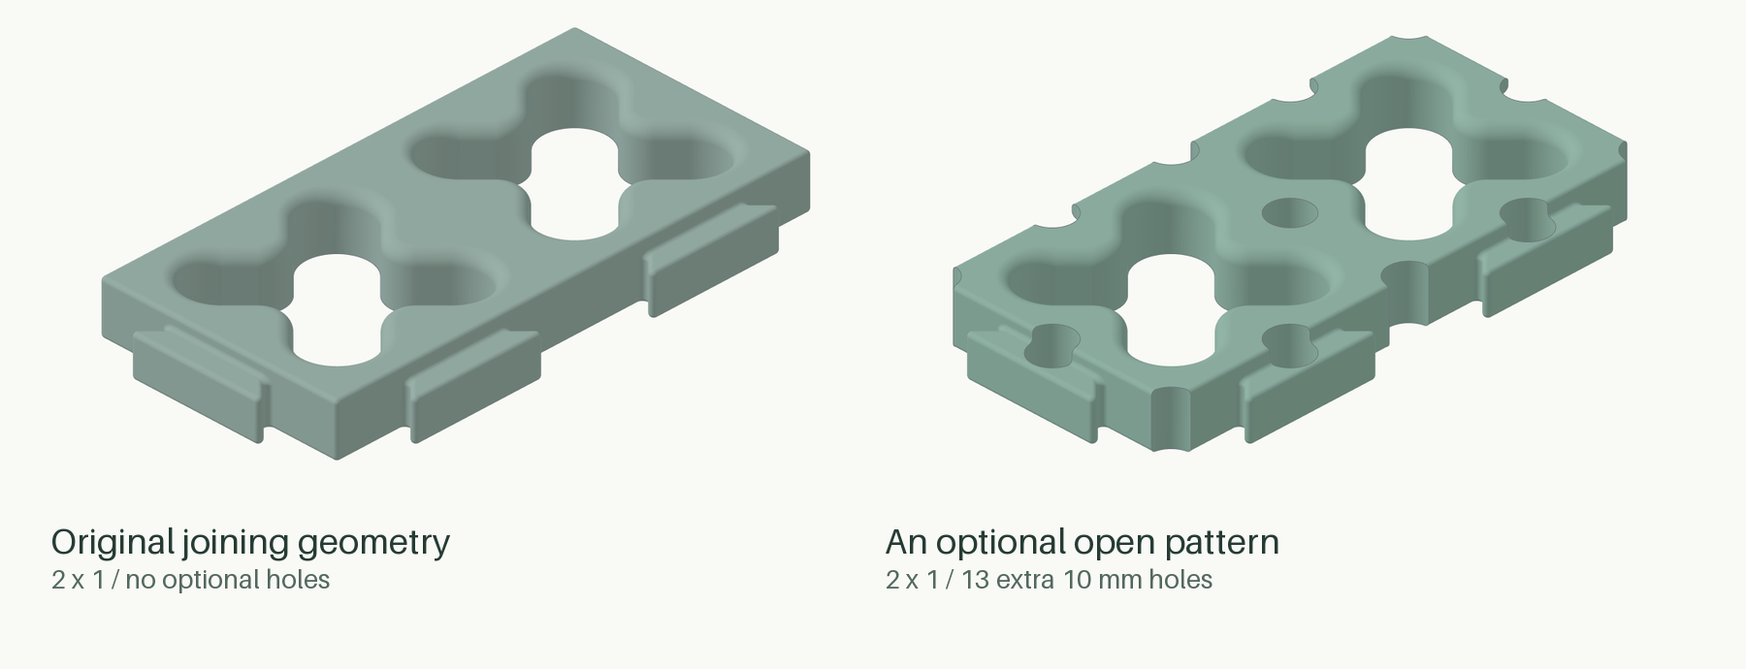
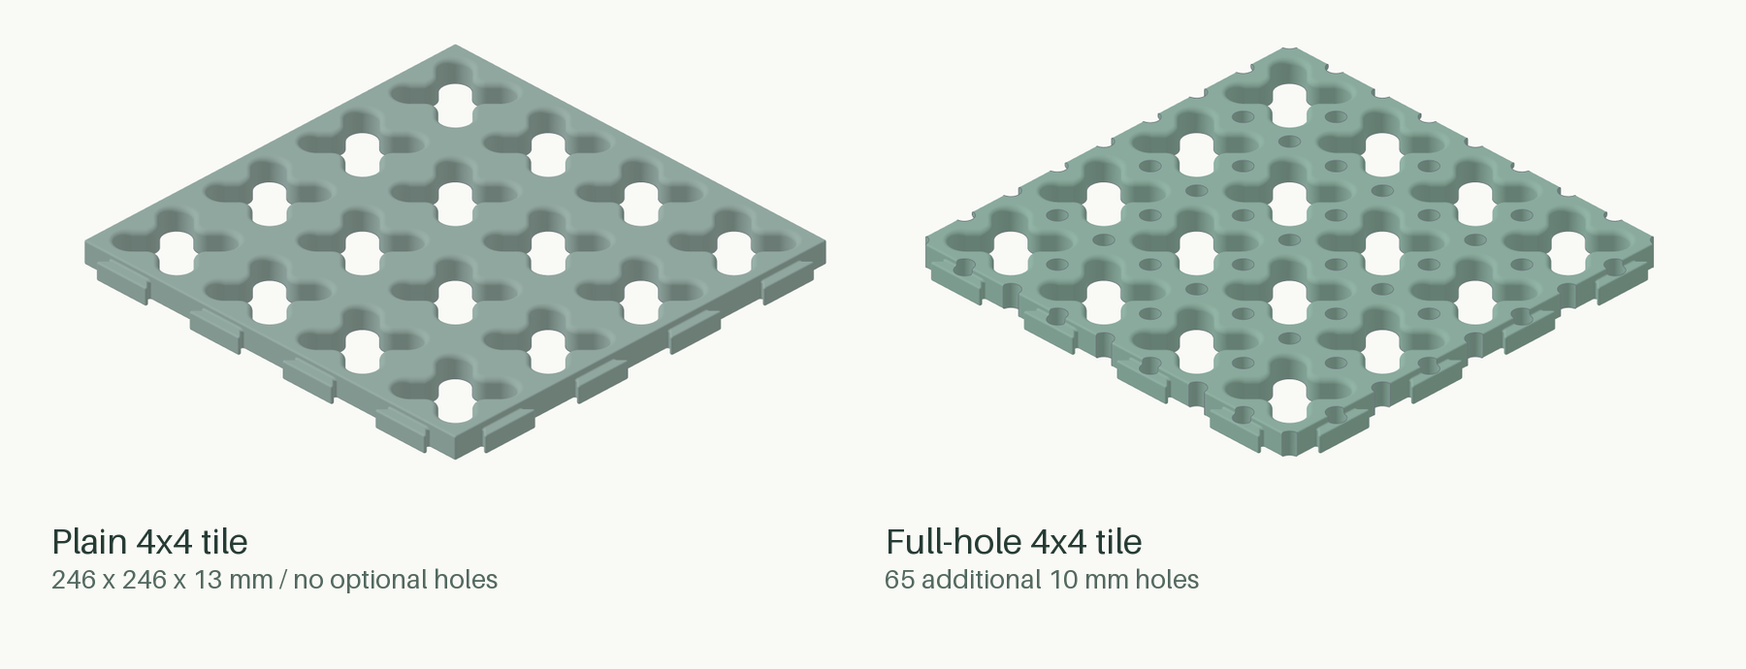
Make the project docs easier to use
Use plain hobbyist-facing language across the README, attachment list and release guide, explain CI directly, and replace the small hero examples with source-rendered 4x4 tiles.\n\nCo-authored-by: Copilot App <223556219+Copilot@users.noreply.github.com>

diff --git a/tools/render_docs.py b/tools/render_docs.py
@@ -147,8 +147,8 @@ def inventory() -> list[Item]:
 
 def hero_items() -> list[Item]:
     return [
-        Item("tile-default", "Original joining geometry", "2 x 1 / no optional holes"),
-        Item("tile-full", "An optional open pattern", "2 x 1 / 13 extra 10 mm holes"),
+        Item("tile-default", "Plain 4x4 tile", "246 x 246 x 13 mm / no optional holes"),
+        Item("tile-full", "Full-hole 4x4 tile", "65 additional 10 mm holes"),
     ]
 
 
@@ -196,8 +196,8 @@ def documentation_shape(key: str):
     if key in ("tile-default", "tile-full"):
         shape = make_tile(
             Tile(
-                2,
-                1,
+                4,
+                4,
                 hole_diameter=10 if key == "tile-full" else None,
                 hole_scope="full" if key == "tile-full" else "interior",
             )
@@ -654,23 +654,23 @@ def compose_all(work: Path, provenance: dict) -> None:
     lines = [
         "# Complete attachment inventory",
         "",
-        f"This gallery covers every attachment variant returned by `accessory_variants(BuildVolume(350, 320, 325))` with original joints and default accessory parameters. It contains {len(items)} variants, all rendered from the generator's actual STEP geometry. Other build envelopes and explicit parametric lengths/heights can produce additional variants; this is not an exhaustive list of an unbounded parameter space.",
+        f"This page lists the {len(items)} accessories that fit the documented 350 x 320 x 325 mm build space with original joints and default settings. Each thumbnail comes from the STEP generated for that part. Other build spaces can allow different rail lengths or ramp widths.",
         "",
-        "Every row has its own STEP-derived thumbnail, directly beside the exact public API name. Click any thumbnail to open its full-size image; on narrow screens, scroll the table horizontally for all columns. Images share a 45-degree azimuth / 32-degree elevation and neutral background, with a common physical scale within each family. Families use different scales for legibility; colors are illustrative, not material assignments.",
+        "Click a thumbnail to open the full-size image. The code name beside it is the name used by the generator. Parts in one family share a scale; different families use different scales so small details stay readable. Colors only separate the shapes visually.",
         "",
         "[Back to the beginner guide](../README.md) / [Thumbnail dimensions, hashes and source provenance](images/attachments/manifest.json)",
         "",
-        "Bracket names state both in-use footprints. The original Deep tall floor 1x2 -> wall 1x2, Wide low floor 2x1 -> wall 2x1 and Deep square floor 2x2 -> wall 2x2 variants keep floor depth and wall height coupled. The additional Shallow tall floor 1x1 -> wall 1x2 and Shallow wide floor 2x1 -> wall 2x2 variants use one floor row with two wall rows. Stable IDs keep the original short 1x2/2x1/2x2 names and spell out `base..._wall...` only for independent-height variants. These five variants require the reference 60 mm pitch, 13 mm tile height and zero fit offset; the unreleased lock-90 family remains replaced without an alias.",
+        "Bracket names state both footprints. Deep tall is floor 1x2 -> wall 1x2, Wide low is floor 2x1 -> wall 2x1 and Deep square is floor 2x2 -> wall 2x2. Shallow tall is floor 1x1 -> wall 1x2, and Shallow wide is floor 2x1 -> wall 2x2. The two shallow IDs spell out `base..._wall...`; the original three keep their shorter IDs. All five use the standard 60 mm pitch, 13 mm tile height and zero fit offset.",
         "",
-        "Bracket thumbnails show the exported one-piece bracket only. The [family view](images/vertical-tile-brackets.png) adds separate ordinary floor and upright wall tiles for assembly context; those tiles are not fused into or included with bracket exports. Wall-tile entry faces meet the bracket, so their undersides face outward. Backed interior round holes are blind, and downward wall extension is obstructed; left/right/up joins remain available at a common wall origin.",
+        "The individual thumbnails show the bracket alone. The [family view](images/vertical-tile-brackets.png) adds separate floor and wall tiles to show assembly; those tiles are not included in the bracket export. The wall tile's underside faces outward. Holes covered by the solid backing are blind while assembled.",
         "",
-        "Ramp names give width along the tile edge in 60 mm cells; every ramp keeps the approved 50 mm front-to-back run and 13 mm rise. One original roofed female pocket is repeated per cell. The ramp receives a north male tile edge and extends away in positive Y; rotating the printed part does not change joining direction. Full-height/custom-interface ramps are omitted rather than presented as compatible.",
+        "Ramp names give width along the tile edge in 60 mm cells. Every ramp keeps the same 50 mm run and 13 mm rise, with one original female pocket per cell. The ramp receives a tile's north male edge and extends in positive Y. Full-height and custom-interface ramps are not available.",
         "",
-        "Normal `vertical-stop` names use base X cells, base Y cells and an explicit H60/H120 shoulder height. These eight parts are filled CAD wedges, not hollow shells or tile brackets; ordinary slicer perimeters and 15% infill remain separate manufacturing choices. They have no wall holes, panel connectors or ledges.",
+        "Normal `vertical-stop` names give base X cells, base Y cells and H60/H120 shoulder height. They are filled CAD wedges with no wall holes, panel connectors or ledges. The slicer still chooses perimeters and infill.",
         "",
-        "Edge/corner free top rims and every normal-stop free exterior edge use R2 rounding. Rail outer top rims and original bracket nonbearing front lips use selective R1. Each shallow bracket couples R1 across its 20 free exterior body edges while retaining the internal panel-bearing corner and exact X geometry; each filled angled-stop envelope couples R1 across all 18 free body edges before restoring its exact X connector/root cores. Tile-facing joins, support joins, bracket bearing land and X interfaces remain protected. Nominal geometry is not calibrated fit or a physical load rating.",
+        "Edge/corner top rims and normal-stop outer edges use R2. Rails, bracket lips, shallow brackets and angled stops use the documented R1 rounds. Tile joints, rail joints, bracket bearing surfaces and X attachments keep their mating geometry.",
         "",
-        "Bambu projects apply X=135 degrees to original brackets, Y=-90 degrees side-down to shallow brackets, each normal stop's broad-rear-face-down angle and X=-135 degrees to angled stops before fit checks and packing. Ramps retain their flat source orientation. Source STEP/STL and core 3MF retain model orientation; manifests record recommendations and exact applied source-to-project transforms. Normal Auto support is scoped to ramp, normal-stop and shallow-bracket objects. Remove shallow-bracket support from both floor and wall X mating regions before assembly; physical removal and fit remain unverified. Edge/corner/plate/rail families retain their project orientation.",
+        "Bambu projects put original brackets on their diagonal rear face, shallow brackets on a broad side, normal stops on their broad rear face and angled stops on their rear face before packing. STEP, STL and core 3MF keep model orientation. Ramps, normal stops and shallow brackets request object-level normal Auto support. Remove all support from mating regions before assembly.",
         "",
     ]
     for family, (heading, _) in FAMILIES.items():

diff --git a/docs/release-checklist.md b/docs/release-checklist.md
@@ -1,52 +1,69 @@
 # Release checks
 
-These are repeatable maintainer gates, not authorization to publish, operate a printer or claim physical compatibility.
+Use this checklist before cutting a release. It checks the source and packages; it does not publish anything or prove that a printed part fits.
 
-## Source and environment
+## Set up the checkout
 
-- Review the intended source changes and license/provenance boundaries. Preserve the repository's MIT notice and any separately licensed dependencies.
-- Use Python 3.12 or newer with compatible CAD wheels. Run normal `uv sync --group dev` with the configured feeds. Keep `uv.lock`, environments, runtime files and generated output local.
-- Confirm that the source version in `src/cargo_grid/_version.py` is the intended pre-release or release identifier. The package, CLI and manifest derive their version from it.
+1. Review the source changes, version and license boundary.
+2. Run `uv sync --group dev` with the configured package feeds.
+3. Keep `uv.lock`, virtual environments, caches and generated jobs out of the commit.
+4. Confirm `src/cargo_grid/_version.py` has the intended version.
 
-## Portable checks
+## Run the portable checks
+
+On the documented local workstation, four process workers were slightly faster than eight for a representative CAD/CLI set because `--dist loadfile` had only five files to schedule. Use:
 
 ```sh
 uv run ruff check .
 uv run ruff format --check .
-uv run pytest -q -m "not native and not reference"
+uv run pytest -q -n 4 --dist loadfile -m "not native and not reference"
 git diff --check
 uv build
 uv run python tools/check_distributions.py dist
 ```
 
-Use a fresh distribution output directory when old builds are present; the archive checker intentionally rejects ambiguous collections of wheels/source archives. It verifies metadata, entry points, license preservation and the exclusion of generated/runtime artifacts. It is not a comprehensive secret or license scanner.
+Use fewer workers on a smaller machine. CI uses two workers on the GitHub runner. Do not use xdist for native Bambu or local-reference tests.
 
-Install the emitted wheel into a fresh environment, outside the source import path. Check both `python -m cargo_grid --version` and the `cargo-grid --help` entry point, then generate a small part and independently reimport its STEP to confirm one valid positive-volume solid and the expected dimensions. Do not mistake an editable source import for a wheel-install test.
+Build into a fresh directory. The distribution checker expects one wheel and one source archive and rejects extra build output. It checks package metadata, entry points, the license and the allowlist; it is not a general secret or license scanner.
 
-CI performs the portable tests, distribution checks and an installed-wheel CLI generation smoke. It does not access private references, system slicer profiles or hardware.
+Install the wheel into a clean Python 3.12 environment outside the source path. Check `python -m cargo_grid --version`, `cargo-grid --help` and at least one generated part. Reimport its STEP and check that it is one valid, positive-volume solid with the expected size.
 
-## Optional native and reference checks
+## What CI checks
 
-Normal generation and packaging need no external model or reference archive. For optional maintainer checks, set `CARGO_GRID_BAMBU` to an explicitly chosen local Bambu Studio executable and `CARGO_GRID_REFERENCE` to an optional local 3MF reference file, then run:
+CI runs for pull requests, pushes to `main` and manual dispatches. It does not run a second copy for every push to a PR branch. A concurrency group cancels older runs when a newer commit reaches the same PR.
+
+The Linux job installs the CAD runtime libraries, runs Ruff, runs the portable tests with two process workers, builds both distributions and installs the wheel into a clean environment. Its smoke commands generate a tile, bracket, normal stop and ramp, then check their manifest dimensions, orientations and support settings with named assertion messages.
+
+CI cannot use private reference files, local slicer profiles or printers. A CI failure is a source/package/test failure until the log shows otherwise; do not label it infrastructure noise without evidence.
+
+## Optional local Bambu and reference checks
+
+Normal generation does not need either resource. To include the optional checks, point `CARGO_GRID_BAMBU` at the chosen Bambu Studio CLI and optionally point `CARGO_GRID_REFERENCE` at a local reference 3MF, then run the suite serially:
 
 ```sh
 uv run pytest -q
 ```
 
-The tests still skip unavailable external checks. `cargo-grid compare-reference --reference-file path/to/reference.3mf --output outputs/reference-report.json` runs the same optional local original-interface diagnostic; the file is read locally and is not uploaded or required by ordinary users. Native CLI import/export is not GUI slicing or printing. If changing Bambu settings or modifier behavior, inspect an actual GUI-generated slice under the intended profile: logical material roles, automatic versus explicitly Custom nozzle grouping, every requested support contact, X-socket clearance, actual model/support extrusion separation and prime-tower reach. Preserve the selected profile and evidence with ignored project outputs, not in package contents.
+Unavailable checks skip. `cargo-grid compare-reference --reference-file path/to/reference.3mf --output outputs/reference-report.json` runs the same local interface comparison without uploading the file.
 
-If using a separate CAD workbench, use its current documented interpreter and launchers from this design root. Generate `examples/tile.py` to a fresh project-relative STEP, inspect that same STEP, and open it in an available viewer. Prefer a maintained CAD canvas only when it is actually registered; otherwise use that workbench's documented fallback. Record the toolchain revision and resolved dependency versions with the local evidence when reproduction requires them. Do not copy the workbench into this repository.
+Native CLI import/export is not a print test. When Bambu settings or modifier behavior changes, slice the affected job with the intended machine, process and material profiles. Check material roles, nozzle mapping, support contact, X-socket clearance, model/support paths and tower reach. Keep profiles, G-code and logs in ignored output directories.
 
-## Physical and compatibility gates
+If a separate CAD workbench is needed, use its documented interpreter and launchers from this repository root. Generate a fresh project-relative STEP, inspect that same file and record the workbench revision with the local evidence. Do not copy workbench files into this repository.
 
-- Original/default versus experimental full-height geometry must remain explicit. A warning-free slice does not remove the known full-height thin-web limitation.
-- Holes and roof support remain off by default. Full hole scope, support contacts and stacked separators require their explicit options.
-- Roof support covers retained west/south female edges only; roof-plus-stack and mixed-catalogue combinations remain rejected.
-- Native default filament grouping and support-foot expansion are not fixed physical nozzle assignments or calibrated adhesion settings. Recheck actual paths after profile changes.
-- Record physical fit, roof-support removal, finish, flatness and both-direction joining observations with the actual printer/material/profile. Do not extrapolate one trial to all profiles, climates or loads.
+## Check the physical assumptions
 
-## Preparing an authorized release
+- Keep original joints and experimental full-height joints clearly separated.
+- Leave holes and roof support off unless the job asks for them.
+- Confirm roof support appears only under retained west/south female roofs.
+- Recheck support, brim and tower paths after profile changes.
+- Record printer, nozzle, layer height, materials, fit, roof finish, support removal and flatness for any physical trial.
 
-Local builds made during development are verification artifacts, not published releases. After the maintainer has separately reviewed and committed the source, prepare release input from tracked files at the reviewed revision, for example with `git archive`, rather than zipping the working directory. Check the tracked file inventory before archiving, then build and inspect distributions from the extracted reviewed source.
+One print does not establish fit or strength for every profile, material, climate or load.
 
-Do not include local locks, reference meshes, system profile JSON, `.venv`, `.local`, study outputs, G-code, unreviewed screenshots or runtime diagnostics. The five overview images, 56 explicitly allowlisted per-variant thumbnails and their provenance manifest under `docs/images/` are the intentional exception: exactly 61 PNGs in the source distribution and zero in the runtime wheel. Verify one-to-one inventory/name/file/alt-text mapping, source/tool provenance, links, dimensions and size with `tools/render_docs.py --check`. Publication, tags and pushes remain separate explicit maintainer decisions; this checklist does not perform them.
+## Prepare release source
+
+After the release commit has been reviewed, create the release input from tracked files at that revision, for example with `git archive`. Do not zip the working directory.
+
+Exclude local locks, environments, caches, reference meshes, system profiles, G-code, study output and runtime diagnostics. The maintained documentation images are the exception: five overview images, 56 accessory thumbnails and their provenance manifest. The source archive contains exactly 61 PNGs; the runtime wheel contains none.
+
+Run `tools/render_docs.py --check` to confirm image hashes, links and one-to-one inventory coverage. Tagging, uploading packages/models and merging remain separate maintainer actions.

diff --git a/docs/attachments.md b/docs/attachments.md
@@ -1,22 +1,22 @@
 # Complete attachment inventory
 
-This gallery covers every attachment variant returned by `accessory_variants(BuildVolume(350, 320, 325))` with original joints and default accessory parameters. It contains 56 variants, all rendered from the generator's actual STEP geometry. Other build envelopes and explicit parametric lengths/heights can produce additional variants; this is not an exhaustive list of an unbounded parameter space.
+This page lists the 56 accessories that fit the documented 350 x 320 x 325 mm build space with original joints and default settings. Each thumbnail comes from the STEP generated for that part. Other build spaces can allow different rail lengths or ramp widths.
 
-Every row has its own STEP-derived thumbnail, directly beside the exact public API name. Click any thumbnail to open its full-size image; on narrow screens, scroll the table horizontally for all columns. Images share a 45-degree azimuth / 32-degree elevation and neutral background, with a common physical scale within each family. Families use different scales for legibility; colors are illustrative, not material assignments.
+Click a thumbnail to open the full-size image. The code name beside it is the name used by the generator. Parts in one family share a scale; different families use different scales so small details stay readable. Colors only separate the shapes visually.
 
 [Back to the beginner guide](../README.md) / [Thumbnail dimensions, hashes and source provenance](images/attachments/manifest.json)
 
-Bracket names state both in-use footprints. The original Deep tall floor 1x2 -> wall 1x2, Wide low floor 2x1 -> wall 2x1 and Deep square floor 2x2 -> wall 2x2 variants keep floor depth and wall height coupled. The additional Shallow tall floor 1x1 -> wall 1x2 and Shallow wide floor 2x1 -> wall 2x2 variants use one floor row with two wall rows. Stable IDs keep the original short 1x2/2x1/2x2 names and spell out `base..._wall...` only for independent-height variants. These five variants require the reference 60 mm pitch, 13 mm tile height and zero fit offset; the unreleased lock-90 family remains replaced without an alias.
+Bracket names state both footprints. Deep tall is floor 1x2 -> wall 1x2, Wide low is floor 2x1 -> wall 2x1 and Deep square is floor 2x2 -> wall 2x2. Shallow tall is floor 1x1 -> wall 1x2, and Shallow wide is floor 2x1 -> wall 2x2. The two shallow IDs spell out `base..._wall...`; the original three keep their shorter IDs. All five use the standard 60 mm pitch, 13 mm tile height and zero fit offset.
 
-Bracket thumbnails show the exported one-piece bracket only. The [family view](images/vertical-tile-brackets.png) adds separate ordinary floor and upright wall tiles for assembly context; those tiles are not fused into or included with bracket exports. Wall-tile entry faces meet the bracket, so their undersides face outward. Backed interior round holes are blind, and downward wall extension is obstructed; left/right/up joins remain available at a common wall origin.
+The individual thumbnails show the bracket alone. The [family view](images/vertical-tile-brackets.png) adds separate floor and wall tiles to show assembly; those tiles are not included in the bracket export. The wall tile's underside faces outward. Holes covered by the solid backing are blind while assembled.
 
-Ramp names give width along the tile edge in 60 mm cells; every ramp keeps the approved 50 mm front-to-back run and 13 mm rise. One original roofed female pocket is repeated per cell. The ramp receives a north male tile edge and extends away in positive Y; rotating the printed part does not change joining direction. Full-height/custom-interface ramps are omitted rather than presented as compatible.
+Ramp names give width along the tile edge in 60 mm cells. Every ramp keeps the same 50 mm run and 13 mm rise, with one original female pocket per cell. The ramp receives a tile's north male edge and extends in positive Y. Full-height and custom-interface ramps are not available.
 
-Normal `vertical-stop` names use base X cells, base Y cells and an explicit H60/H120 shoulder height. These eight parts are filled CAD wedges, not hollow shells or tile brackets; ordinary slicer perimeters and 15% infill remain separate manufacturing choices. They have no wall holes, panel connectors or ledges.
+Normal `vertical-stop` names give base X cells, base Y cells and H60/H120 shoulder height. They are filled CAD wedges with no wall holes, panel connectors or ledges. The slicer still chooses perimeters and infill.
 
-Edge/corner free top rims and every normal-stop free exterior edge use R2 rounding. Rail outer top rims and original bracket nonbearing front lips use selective R1. Each shallow bracket couples R1 across its 20 free exterior body edges while retaining the internal panel-bearing corner and exact X geometry; each filled angled-stop envelope couples R1 across all 18 free body edges before restoring its exact X connector/root cores. Tile-facing joins, support joins, bracket bearing land and X interfaces remain protected. Nominal geometry is not calibrated fit or a physical load rating.
+Edge/corner top rims and normal-stop outer edges use R2. Rails, bracket lips, shallow brackets and angled stops use the documented R1 rounds. Tile joints, rail joints, bracket bearing surfaces and X attachments keep their mating geometry.
 
-Bambu projects apply X=135 degrees to original brackets, Y=-90 degrees side-down to shallow brackets, each normal stop's broad-rear-face-down angle and X=-135 degrees to angled stops before fit checks and packing. Ramps retain their flat source orientation. Source STEP/STL and core 3MF retain model orientation; manifests record recommendations and exact applied source-to-project transforms. Normal Auto support is scoped to ramp, normal-stop and shallow-bracket objects. Remove shallow-bracket support from both floor and wall X mating regions before assembly; physical removal and fit remain unverified. Edge/corner/plate/rail families retain their project orientation.
+Bambu projects put original brackets on their diagonal rear face, shallow brackets on a broad side, normal stops on their broad rear face and angled stops on their rear face before packing. STEP, STL and core 3MF keep model orientation. Ramps, normal stops and shallow brackets request object-level normal Auto support. Remove all support from mating regions before assembly.
 
 ## Floor ramps
 

diff --git a/README.md b/README.md
@@ -2,7 +2,7 @@
 
 Cargo-Grid generates modular cargo-mat tiles and accessories from Python. The default grid uses 60 mm cells and 13 mm-tall tiles. You can export STEP, STL and editable 3MF files for one part, a fitted rectangular layout or the complete catalogue.
 
-![A 2x1 tile without optional holes beside the same tile with the full 13-hole pattern.](docs/images/hero.png)
+![A large 4x4 tile without optional holes beside the same tile with the full 65-hole pattern.](docs/images/hero.png)
 
 This is an independently authored, MIT-licensed pre-release. The geometry and export checks catch CAD and file errors, but printed fit, support removal and load capacity still need testing on your machine and material.
 
@@ -240,12 +240,12 @@ Development checks:
 uv sync --group dev
 uv run ruff check .
 uv run ruff format --check .
-uv run pytest -q -m "not native and not reference"
+uv run pytest -q -n 4 --dist loadfile -m "not native and not reference"
 uv build
 uv run python tools/check_distributions.py dist
 ```
 
-Keep `uv.lock` local and ignored. Native/reference tests use explicitly supplied `CARGO_GRID_BAMBU` and `CARGO_GRID_REFERENCE`; they skip when those resources are unavailable. See [AGENTS.md](AGENTS.md), the [release checklist](docs/release-checklist.md) and [gallery reproduction instructions](docs/attachments.md#reproduce-the-images) for maintainer details.
+Four process workers were fastest in the local benchmark; CI uses two on its smaller runner. Keep native/reference tests serial. They use explicitly supplied `CARGO_GRID_BAMBU` and `CARGO_GRID_REFERENCE` and skip when those resources are unavailable. Keep `uv.lock` local and ignored. See [AGENTS.md](AGENTS.md), the [release checklist](docs/release-checklist.md) and [gallery reproduction instructions](docs/attachments.md#reproduce-the-images) for maintainer details.
 
 ## License and reference boundary
 

diff --git a/docs/geometry.md b/docs/geometry.md
@@ -1,4 +1,6 @@
-# Geometry contract and evidence boundaries
+# Geometry and print assumptions
+
+This is the maintainer reference for dimensions, interfaces and validation limits. The README covers normal use; this file records the details that must not change accidentally.
 
 ## Datums and interfaces
 
